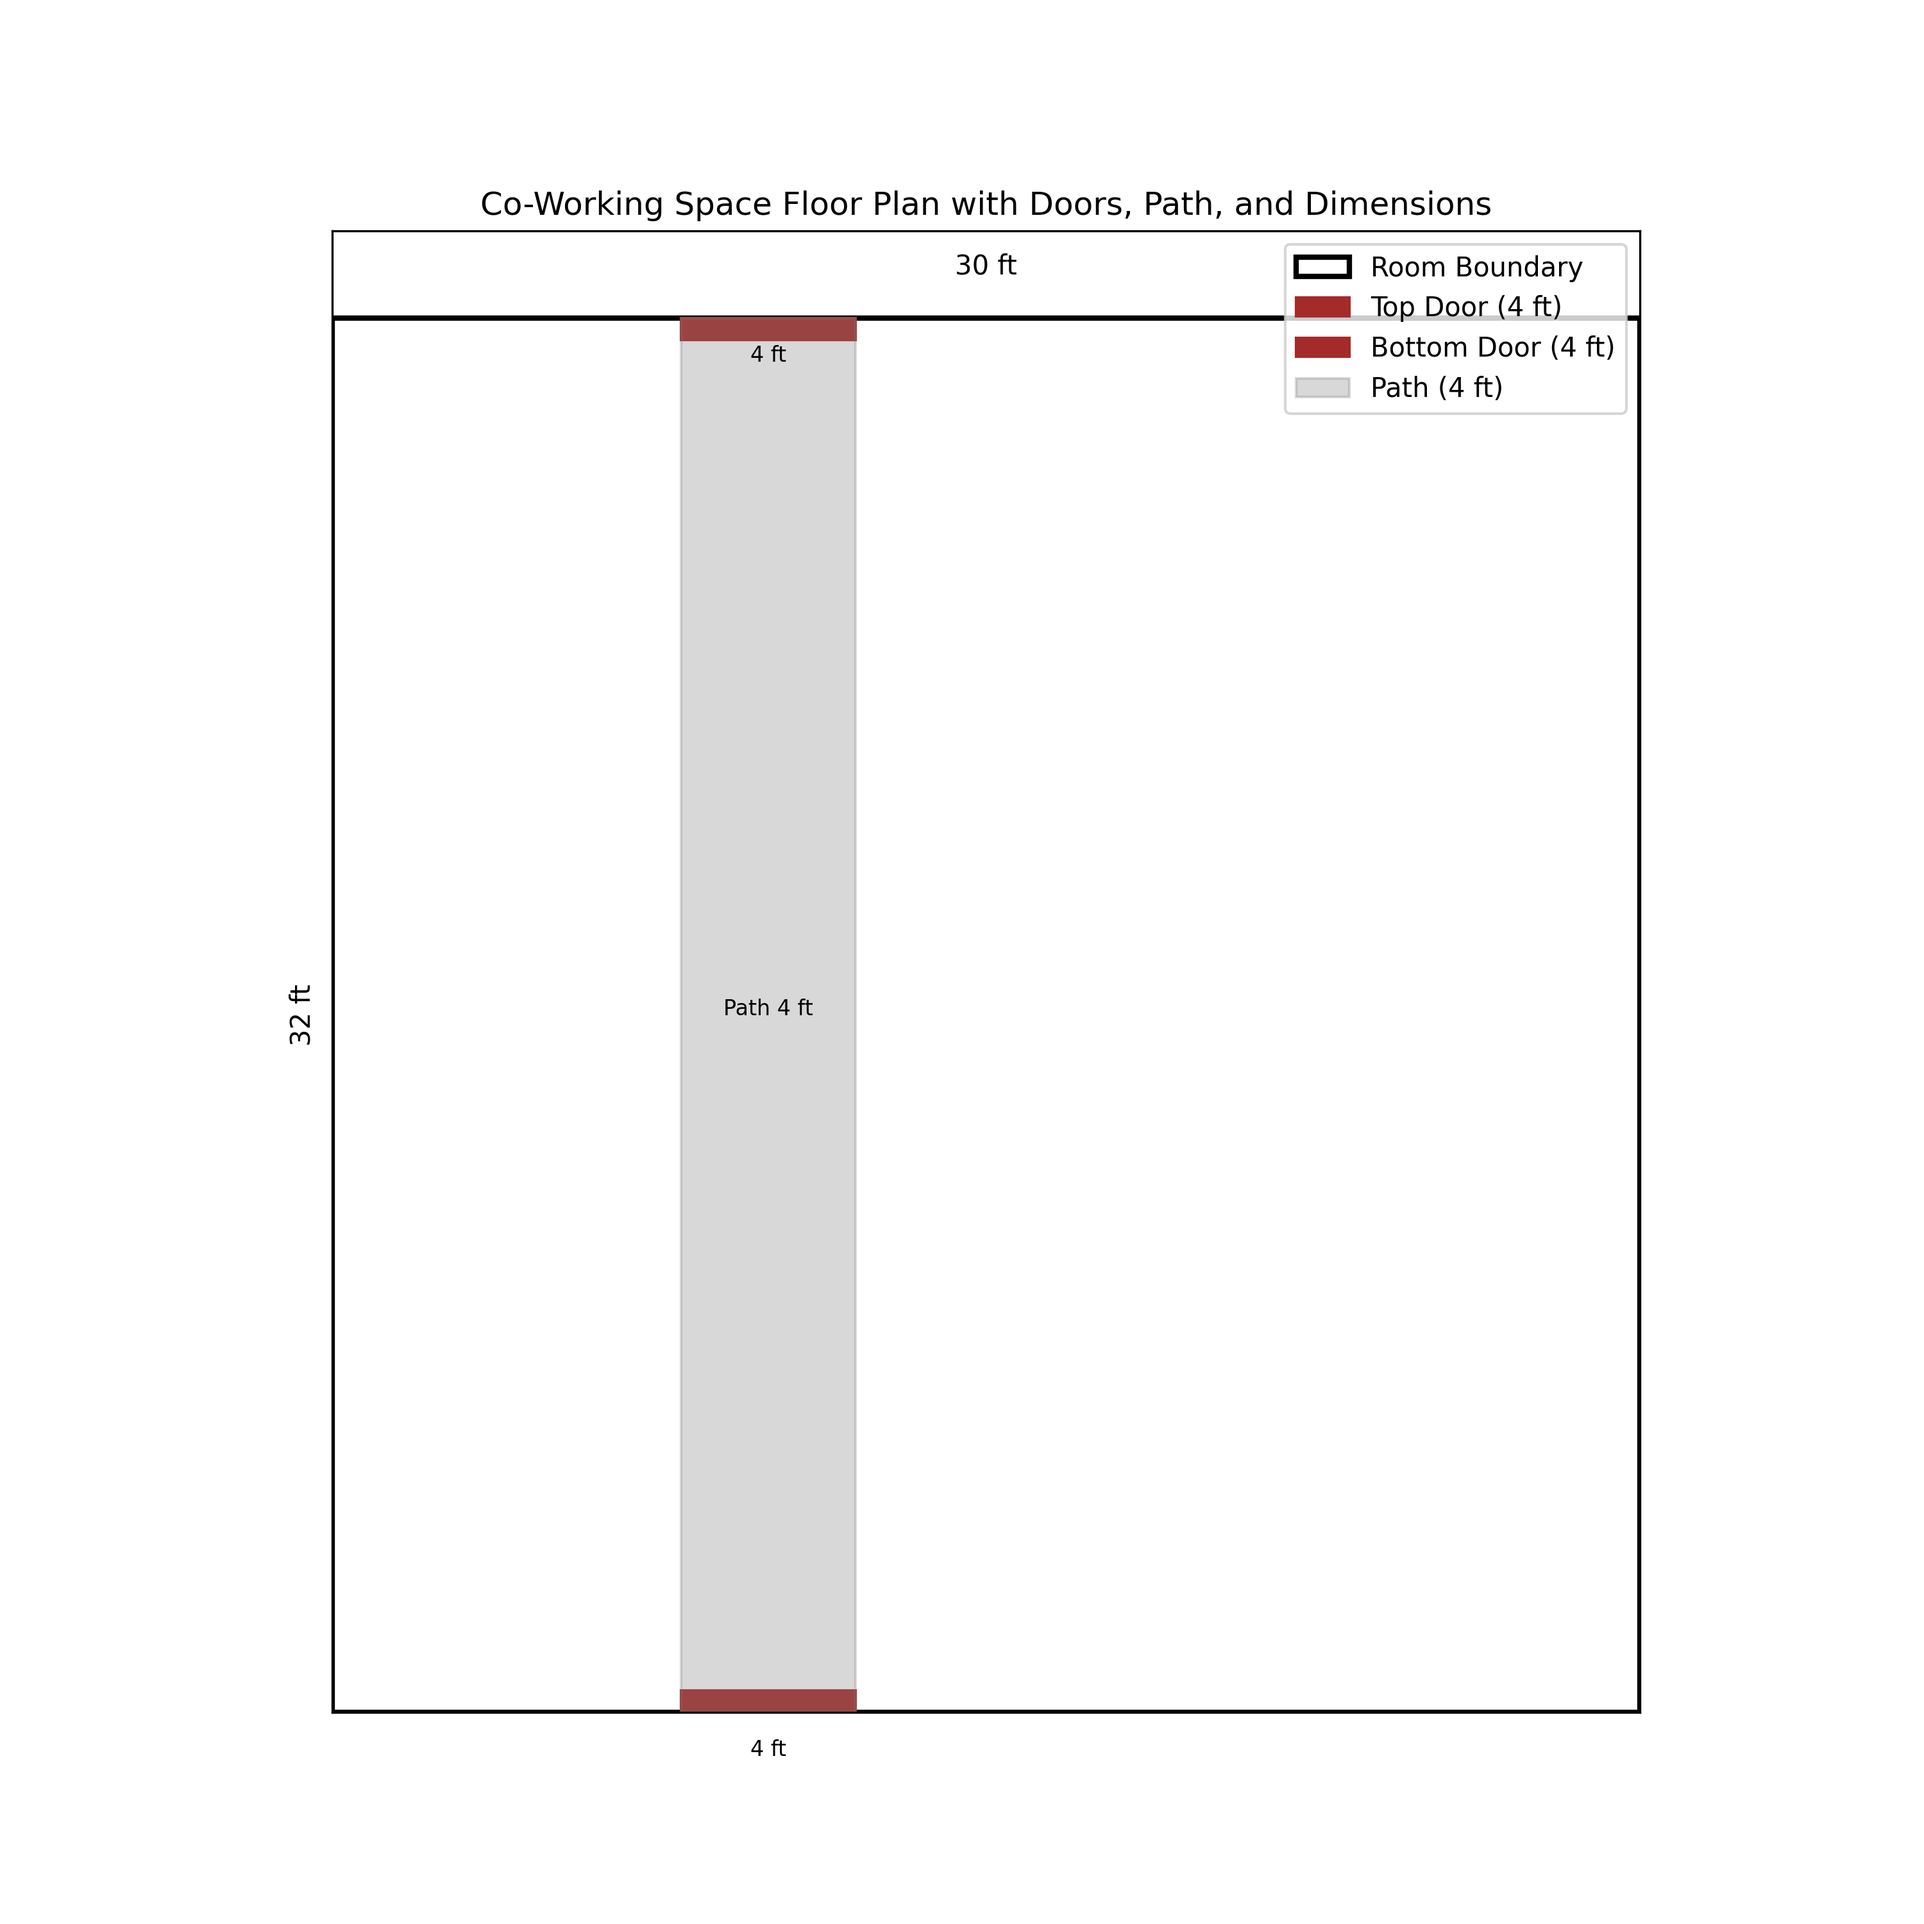
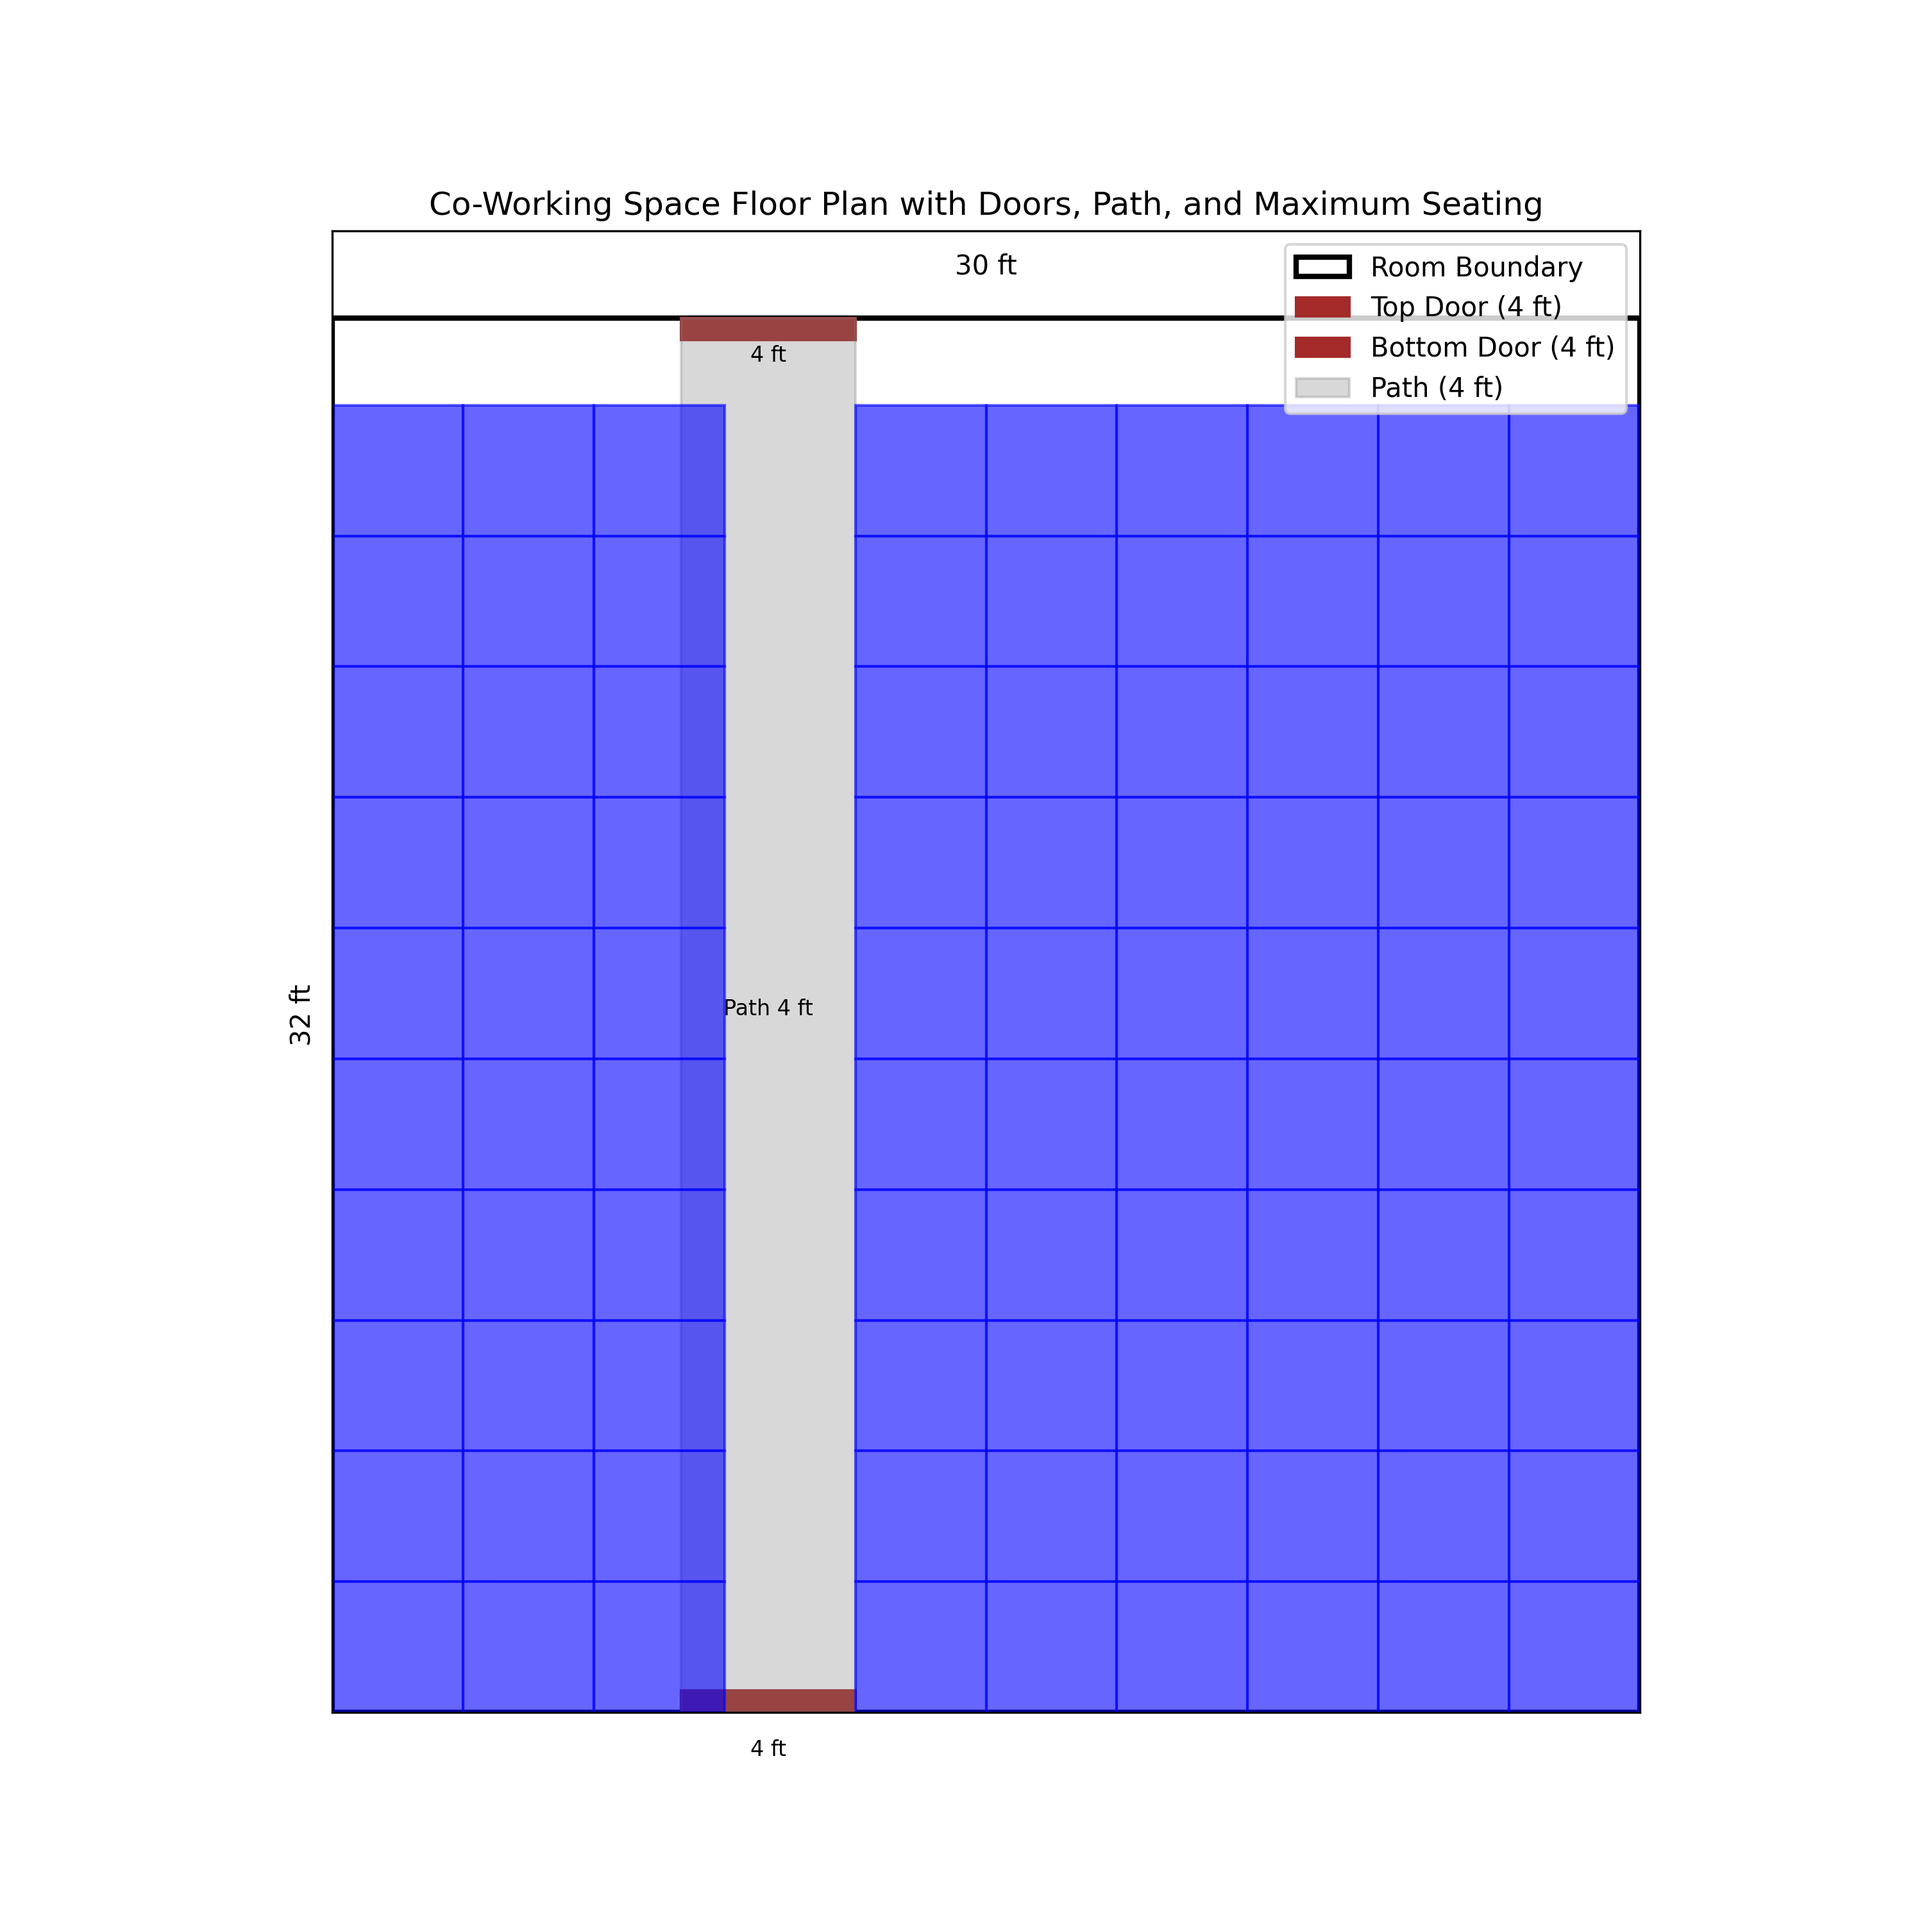
some overlappings present

diff --git a/sample.py b/sample.py
@@ -4,6 +4,10 @@ import matplotlib.patches as patches
 def create_floor_plan(save_path="coworking_space_floor_plan.png"):
     # Define room dimensions
     width, height = 30, 32  # in feet
+    seat_size = 3  # Each seat occupies 3x3 ft
+    path_width = 4  # Path width in feet
+    door_width = 4  # Door width in feet
+    door_position = 8  # Door positioned 8 feet from the left
 
     # Create figure and axis
     fig, ax = plt.subplots(figsize=(10, 10))
@@ -12,18 +16,21 @@ def create_floor_plan(save_path="coworking_space_floor_plan.png"):
     ax.add_patch(patches.Rectangle((0, 0), width, height, fill=None, edgecolor='black', linewidth=2, label="Room Boundary"))
     
     # Add doors
-    door_width = 4  # Door width in feet
-    door_position = 8  # Door positioned 8 feet from the left
-    
-    # Top door at 8 feet from left
     ax.add_patch(patches.Rectangle((door_position, height - 0.5), door_width, 0.5, fill=True, color='brown', label="Top Door (4 ft)"))
-    
-    # Bottom door also at 8 feet from left
     ax.add_patch(patches.Rectangle((door_position, 0), door_width, 0.5, fill=True, color='brown', label="Bottom Door (4 ft)"))
     
-    # Draw path (4 feet wide)
-    path_width = 4
+    # Draw path
     ax.add_patch(patches.Rectangle((door_position + door_width/2 - path_width/2, 0), path_width, height, fill=True, color='gray', alpha=0.3, label="Path (4 ft)"))
+    
+    # Place seats avoiding the path
+    num_seats_x = width // seat_size  # Number of seats per row
+    num_seats_y = height // seat_size  # Number of seats per column
+    for i in range(num_seats_x):
+        for j in range(num_seats_y):
+            seat_x, seat_y = i * seat_size, j * seat_size
+            # Skip seats that overlap with the path
+            if not (door_position <= seat_x <= door_position + path_width - seat_size):
+                ax.add_patch(patches.Rectangle((seat_x, seat_y), seat_size, seat_size, fill=True, color='blue', alpha=0.6))
     
     # Add dimensions
     ax.text(15, height + 1, "30 ft", fontsize=10, ha='center')
@@ -38,7 +45,7 @@ def create_floor_plan(save_path="coworking_space_floor_plan.png"):
     plt.xticks([])
     plt.yticks([])
     plt.gca().set_aspect('equal', adjustable='box')
-    plt.title("Co-Working Space Floor Plan with Doors, Path, and Dimensions")
+    plt.title("Co-Working Space Floor Plan with Doors, Path, and Maximum Seating")
     plt.legend()
     
     # Save the image
